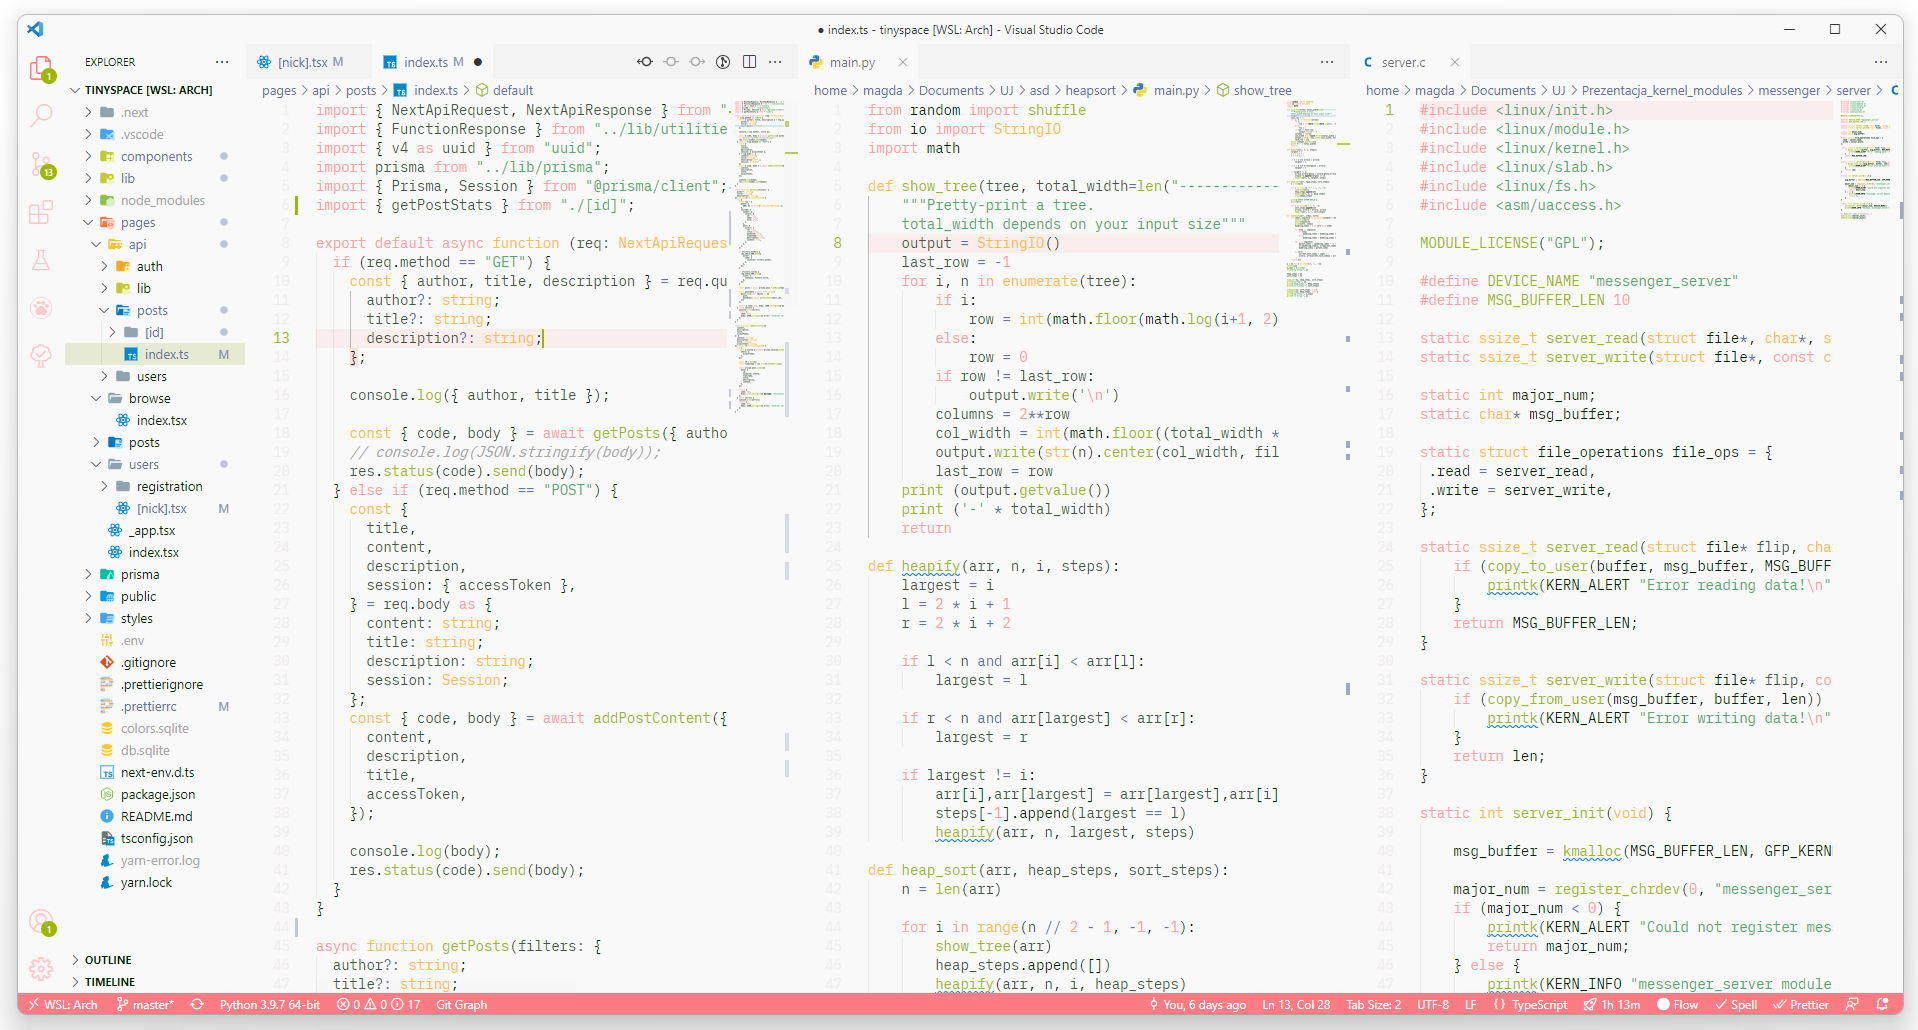
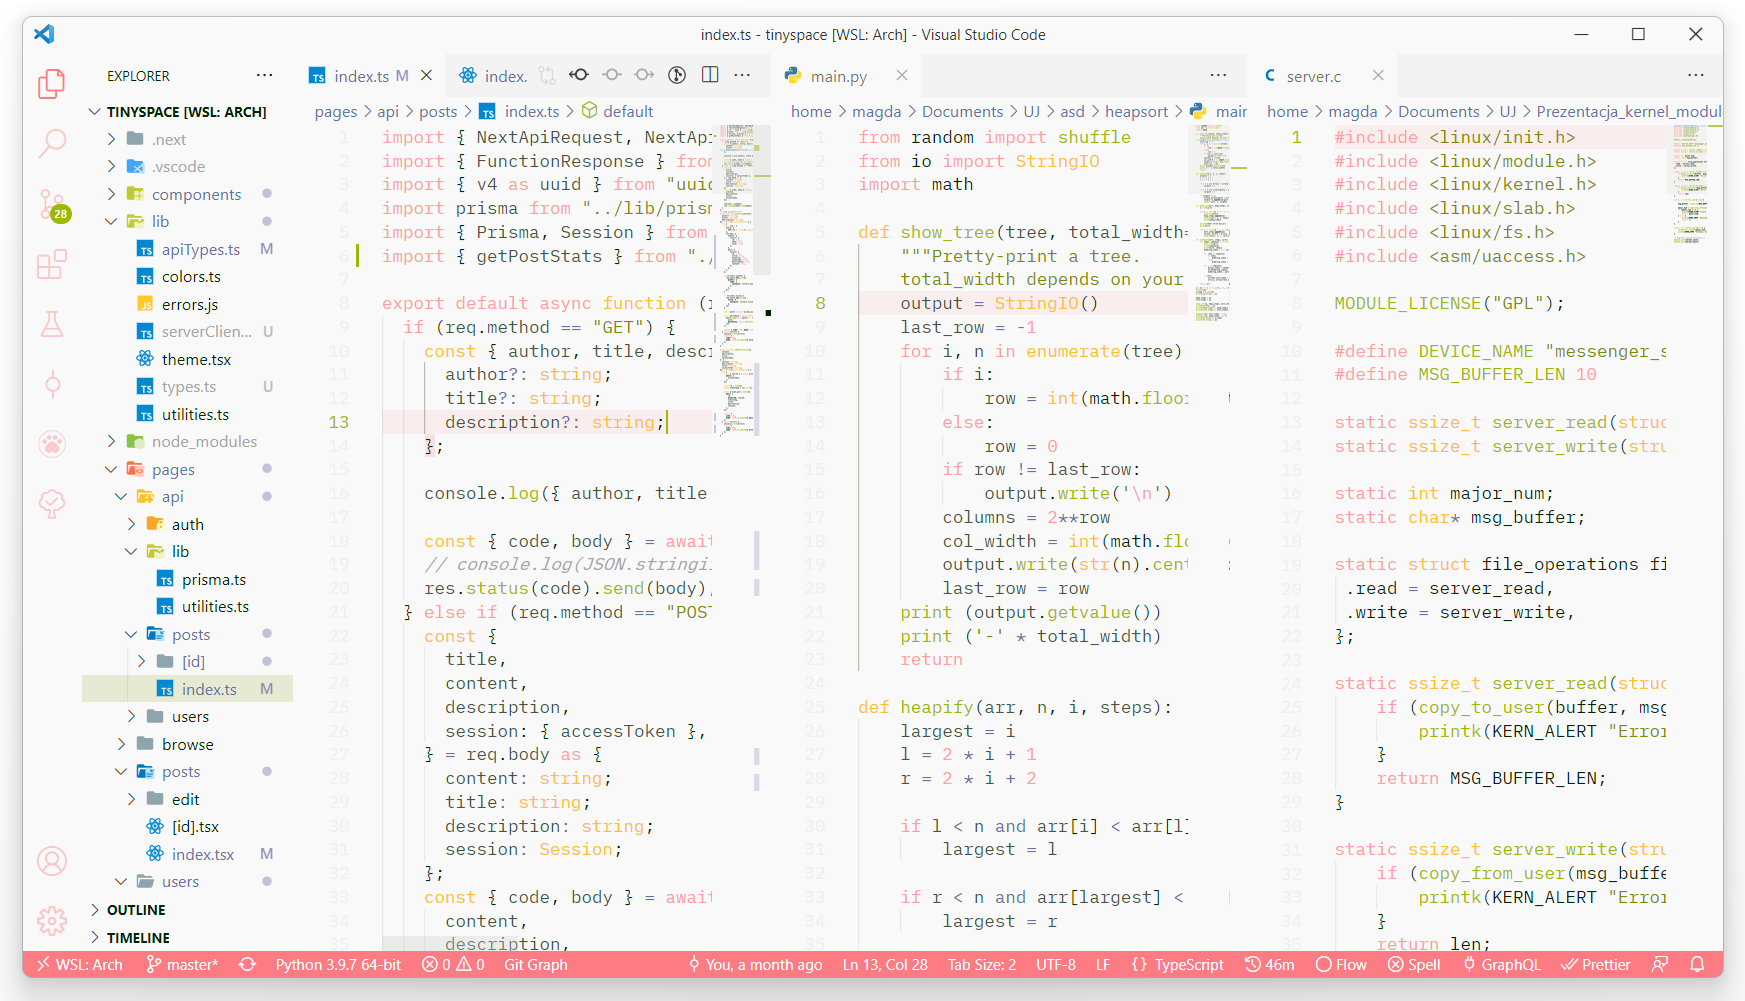
change cyan, add framed themes

diff --git a/README.md b/README.md
@@ -8,6 +8,32 @@ Minimal version with simple syntax highlighting.
 
 Extended version with more complex syntax highlighting for people who like to have everything colored.
 
+![Screenshot - White Peach Framed Theme](https://raw.githubusercontent.com/magdalenalipka/white-peach-theme/master/static/ss_white_peach_framed.png)
+
+Minimal version with simple syntax highlighting and contrasting panels.
+
+![Screenshot - White Peach Extended Framed Theme](https://raw.githubusercontent.com/magdalenalipka/white-peach-theme/master/static/ss_white_peach_extended_framed.png)
+
+Extended version with more complex syntax highlighting for people who like to have everything colored and with contrasting panels.
+
 ![Color Scheme](https://raw.githubusercontent.com/magdalenalipka/white-peach-theme/master/static/colors.png)
 
 <div>Icon made by <a href="https://www.flaticon.com/authors/vitaly-gorbachev" title="Vitaly Gorbachev">Vitaly Gorbachev</a> from <a href="https://www.flaticon.com/" title="Flaticon">www.flaticon.com</a></div>
+
+## Changelog
+
+### 0.0.1
+- Created simple base theme.
+
+### 0.0.2
+- Added theme with extended syntax highlighting colors.
+- Fixed status bar colors.
+
+### 0.1.0
+- Enabled semantic highlighting.
+
+### 0.1.1
+- Added 'framed' themes with contrasting panels.
+- Changed cyan colors to more suitable.
+
+
